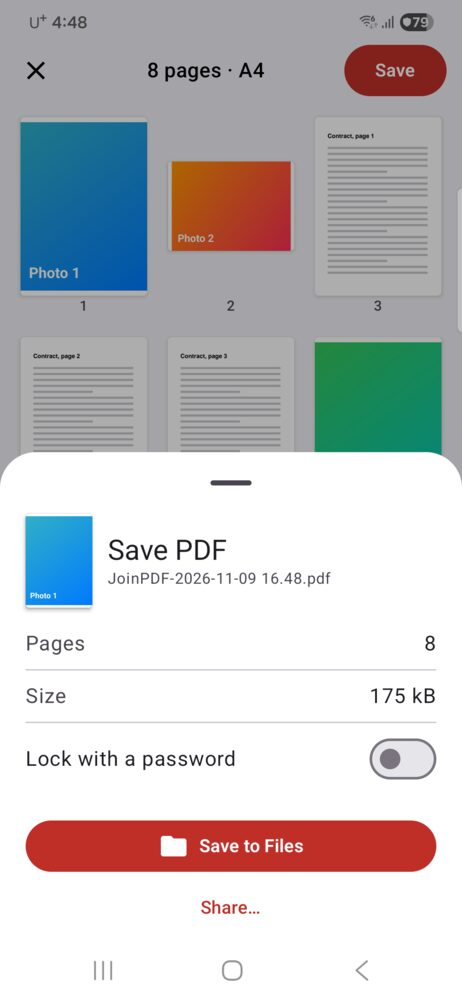
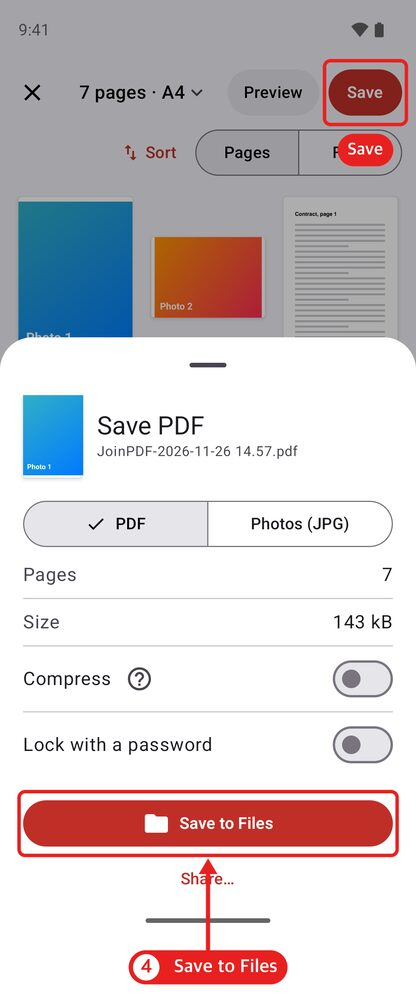
feat(blog): 안드로이드 PDF 합치기 글에 단계별 빨간 박스 캡처 5장 + 결과 1장
Pixel_9 에뮬레이터 JoinPDF 데모 장면으로 찍었다. 저장은 Save → Save to Files →
안드로이드 저장 화면 SAVE 순서라 5단계로 나눴다.

diff --git a/content/blog/combine-pdf-files-android/index.md b/content/blog/combine-pdf-files-android/index.md
@@ -29,16 +29,24 @@ An online merger is fine for a menu or a public flyer. For a contract, a bank st
 
 We make [JoinPDF](/apps/joinpdf/) for this.
 
-<div class="shots">
-<figure><img src="joinpdf-board.jpg" alt="JoinPDF on Android: a board titled 8 pages, A4, with photos and the pages of a contract PDF side by side in a numbered grid" width="462" height="1000" loading="lazy"><figcaption>Every page of every file on one board</figcaption></figure>
-<figure><img src="joinpdf-save.jpg" alt="JoinPDF Save PDF sheet: 8 pages, 175 kB, a Lock with a password switch, and a Save to Files button" width="462" height="1000" loading="lazy"><figcaption>Check the page count and size, then save</figcaption></figure>
-</div>
+1. Tap **Choose PDF or files** and pick your PDFs. **Choose photos** adds pictures from your gallery, and **＋** on the board adds more later.
+2. Every page appears on one board, numbered. A three-page PDF becomes three pages you can move on their own. Touch and hold a page, then drag it where it belongs.
+3. Tap pages to select them, then tap **Rotate**, **Duplicate** or **Remove** at the bottom. **Blank** adds an empty page.
+4. Tap **Save**. The sheet shows the page count and file size. Turn on **Lock with a password** or **Compress** here if you need them, then tap **Save to Files**. **Share…** sends it straight to an email or chat instead.
+5. Pick a folder, then tap **SAVE**.
 
-1. Tap **Choose PDF or files** and pick your PDFs. Tap **＋** later to add more, or **Choose photos** for pictures from your gallery.
-2. Every page appears on one board, numbered. A three-page PDF becomes three pages you can move on their own.
-3. Touch and hold a page, then drag it where it belongs.
-4. Tap pages to select them, then **Rotate**, **Duplicate** or **Remove**. **Blank** adds an empty page.
-5. Tap **Save**. The sheet shows the page count and file size. Tap **Save to Files** and pick a folder, or **Share…** to send it straight to an email or chat.
+<div class="shots">
+<figure><img src="joinpdf-choose.jpg" alt="JoinPDF first screen on Android with Choose PDF or files marked 1 in red" width="416" height="1000" loading="lazy"><figcaption>1. Choose PDF or files</figcaption></figure>
+<figure><img src="joinpdf-drag.jpg" alt="JoinPDF board of seven numbered pages from photos and a contract PDF, with page 6 marked 2 in red to touch and hold and drag" width="416" height="1000" loading="lazy"><figcaption>2. Touch and hold a page, then drag</figcaption></figure>
+</div>
+<div class="shots">
+<figure><img src="joinpdf-select.jpg" alt="JoinPDF with pages 2 and 4 selected and the Rotate, Duplicate and Remove buttons at the bottom marked 3 in red" width="416" height="1000" loading="lazy"><figcaption>3. Select pages, then Rotate, Duplicate or Remove</figcaption></figure>
+<figure><img src="joinpdf-save.jpg" alt="JoinPDF Save PDF sheet with 7 pages and 143 kB, Save marked at the top and Save to Files marked 4 in red" width="416" height="1000" loading="lazy"><figcaption>4. Save, then Save to Files</figcaption></figure>
+</div>
+<div class="shots">
+<figure><img src="joinpdf-folder.jpg" alt="Android's save screen open at Downloads with the SAVE button marked 5 in red" width="416" height="1000" loading="lazy"><figcaption>5. Pick a folder, then SAVE</figcaption></figure>
+<figure><img src="joinpdf-saved.jpg" alt="JoinPDF Saved sheet showing the new PDF file name and a Done button" width="446" height="1000" loading="lazy"><figcaption>Saved as one PDF</figcaption></figure>
+</div>
 
 Have it on paper? **Scan a document** on the first screen takes the page with the camera, crops it, and puts it on the board like any other page.
 
